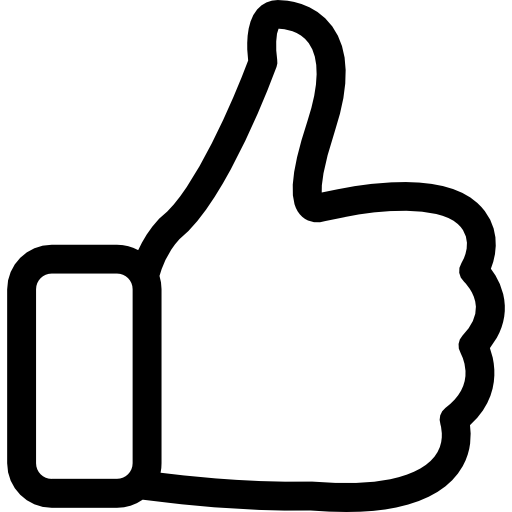
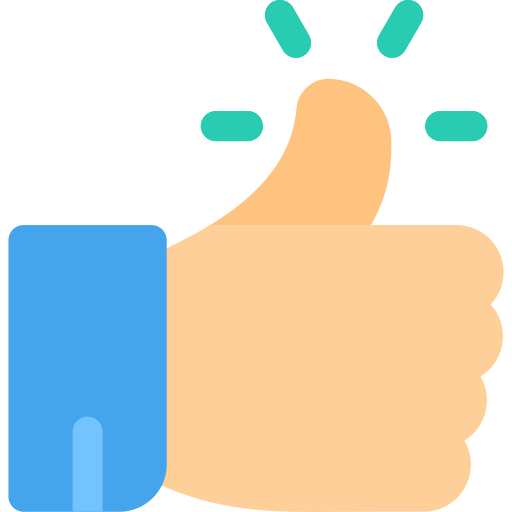
reaction added with like

diff --git a/src/Components/home/shared/FeedCard.tsx b/src/Components/home/shared/FeedCard.tsx
@@ -7,15 +7,16 @@ import { FaComment, FaRegComment } from "react-icons/fa";
 import { IoSend } from "react-icons/io5";
 import { BsThreeDots, BsThreeDotsVertical } from "react-icons/bs";
 import Link from "next/link";
+
 import PostCommentBox from "../shared/PostCommentBox";
 import { IPost } from "@/types/newsfeed";
 import Image from "next/image";
 import img from "/public/unnamed.webp";
 import Reactions from "@/Components/newsfeed/reaction/Reaction";
 import { Dropdown } from "antd";
-import like from "/public/assets/reaction/like.png";
+
 import { reactionItem } from "@/Components/newsfeed/reaction/ReactionItem";
-import { useAppDispatch } from "@/Redux/hooks";
+import { useAppDispatch, useAppSelector } from "@/Redux/hooks";
 import { setPostId } from "@/Redux/Slices/unitlitySlice";
 import { RiShareForwardLine } from "react-icons/ri";
 import { TbShare3 } from "react-icons/tb";
@@ -26,8 +27,11 @@ import { FaRegBookmark } from "react-icons/fa6";
 import { useGetAllCommentQuery } from "@/Redux/api/commentApi";
 
 const FeedCard = ({ data }: { data: IPost }) => {
-  const [open, setOpen] = useState(false);
-  console.log(open);
+  const [isOpen, setIsOpen] = useState(false);
+
+  const { reaction } = useAppSelector((state) => state.reaction);
+  console.log(reaction);
+
   const { data: comments } = useGetAllCommentQuery(data._id);
 
   const dispatch = useAppDispatch();
@@ -54,7 +58,7 @@ const FeedCard = ({ data }: { data: IPost }) => {
         </div>
         <div className="relative">
           <Button
-            onClick={() => setOpen(!open)}
+            onClick={() => setIsOpen(!isOpen)}
             shape="circle"
             className="flex justify-center items-center rounded-full bg-[#f4f4f4]"
           >
@@ -65,7 +69,7 @@ const FeedCard = ({ data }: { data: IPost }) => {
 
           {/* TODO: make reusable popup card    */}
           <div className="absolute w-[200px] right-6">
-            {open ? (
+            {isOpen ? (
               <>
                 <div className="bg-gray-200 rounded-md p-3">
                   <div className="flex flex-col">
@@ -122,13 +126,17 @@ const FeedCard = ({ data }: { data: IPost }) => {
             <Dropdown menu={{ items: reactionItem }} placement="top" arrow>
               <div className="flex gap-2">
                 <Image
-                  src={like}
+                  src={
+                    reaction
+                      ? `/assets/reaction/${reaction}.png`
+                      : "/assets/reaction/likeOutline.png"
+                  }
                   width={20}
                   height={20}
                   alt="like icon"
                   className=" transion-all duration-300"
                 />
-                <h2>Like</h2>
+                <h2>{reaction ? reaction : "Like"} </h2>
               </div>
             </Dropdown>
           </div>

diff --git a/src/Components/newsfeed/reaction/Reaction.tsx b/src/Components/newsfeed/reaction/Reaction.tsx
@@ -12,14 +12,18 @@ import love from "/public/assets/reaction/love.png";
 import sad from "/public/assets/reaction/sad.png";
 import wow from "/public/assets/reaction/wow.png";
 import angry from "/public/assets/reaction/angry.png";
-import haha from "/public/assets/reaction/ha.png";
+import haha from "/public/assets/reaction/haha.png";
+import like from "/public/assets/reaction/like.png";
 import Image from "next/image";
-import like from "/public/assets/reaction/like (1).png";
-import { useSubmitReactionMutation } from "@/Redux/api/reactionApi";
+import {
+  useGetAllReactionQuery,
+  useSubmitReactionMutation,
+} from "@/Redux/api/reactionApi";
 import { useAppSelector } from "@/Redux/hooks";
 import { IReaction } from "@/types/newsfeed";
 import { useDispatch } from "react-redux";
 import { setPostId } from "@/Redux/Slices/unitlitySlice";
+import { setReaction } from "@/Redux/Slices/reactionSlice";
 
 const ReactionLabel = () => {
   // redux
@@ -39,7 +43,7 @@ const ReactionLabel = () => {
         reaction: React,
       };
 
-      console.log(reaction);
+      dispatch(setReaction(reaction.reaction));
 
       const res = await await submitReaction(reaction);
       // if (res?.data) {

diff --git a/src/Redux/api/reactionApi.ts b/src/Redux/api/reactionApi.ts
@@ -4,8 +4,7 @@
  * Author: 'Masum Rana'
  * Date: 04-02-2024
  *
-*/
-
+ */
 
 import { IReaction } from "@/types/newsfeed";
 import { baseApi } from "./baseApi";
@@ -21,9 +20,9 @@ const commentApi = baseApi.injectEndpoints({
       invalidatesTags: ["reaction"],
     }),
 
-    getAllRection: build.query({
-      query: (postid) => ({
-        url: `/raction/${postid}`,
+    getAllReaction: build.query({
+      query: (postId) => ({
+        url: `/reaction/${postId}`,
         method: "GET",
       }),
       providesTags: ["reaction"],
@@ -32,4 +31,4 @@ const commentApi = baseApi.injectEndpoints({
   overrideExisting: false,
 });
 
-export const { useSubmitReactionMutation, useGetAllRectionQuery } = commentApi;
+export const { useSubmitReactionMutation, useGetAllReactionQuery } = commentApi;

diff --git a/src/Redux/Slices/reactionSlice.ts b/src/Redux/Slices/reactionSlice.ts
@@ -1,0 +1,23 @@
+import { createSlice } from "@reduxjs/toolkit";
+import type { PayloadAction } from "@reduxjs/toolkit";
+
+export interface IInitialState {
+  reaction: string;
+}
+
+const initialState: IInitialState = {
+  reaction: "",
+};
+
+export const reactionSlice = createSlice({
+  name: "reaction",
+  initialState,
+  reducers: {
+    setReaction: (state, action: PayloadAction<string>) => {
+      state.reaction = action.payload;
+    },
+  },
+});
+
+export const { setReaction } = reactionSlice.actions;
+export default reactionSlice.reducer;

diff --git a/src/Redux/rootReducer.ts b/src/Redux/rootReducer.ts
@@ -2,12 +2,14 @@ import authReducer from "./Slices/authSlice";
 // import themeReducer from "./Slices/themeSlice";
 import NavbarSlice from "./Slices/navbarSlice";
 import utilitySlice from "./Slices/unitlitySlice";
+import reactionSlice from "./Slices/reactionSlice";
 import { baseApi } from "./api/baseApi";
 
 const rootReducer = {
   [baseApi.reducerPath]: baseApi.reducer,
   authSlice: authReducer,
   // themeSlice: themeReducer,
+  reaction: reactionSlice,
   navbarSlice: NavbarSlice,
   utilitySlice: utilitySlice,
 };

diff --git a/src/app/(withlayout)/photo/[postId]/page.tsx b/src/app/(withlayout)/photo/[postId]/page.tsx
@@ -15,6 +15,7 @@ import { IComment } from "@/types/newsfeed";
 const PostDetailPage = ({ params }) => {
   const id = params.postId;
   const { data: comments } = useGetAllCommentQuery(id);
+  // console.log(id);
 
   return (
     <div className="flex flex-col lg:flex-row pt-4 lg:pt-24  min-h-[95vh] ">
